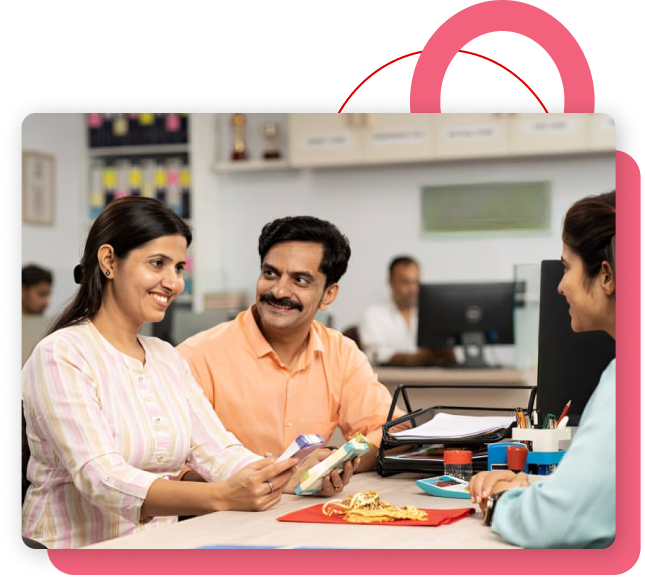
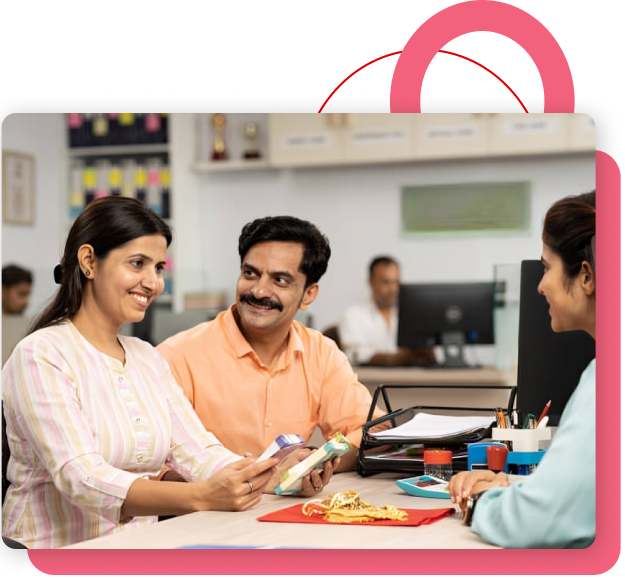
homepage responsiveness added

diff --git a/src/components/WhyChooseUs/WhyChooseUs.module.css b/src/components/WhyChooseUs/WhyChooseUs.module.css
@@ -1,42 +1,107 @@
+/* --- Mobile First Base Styles --- */
+
 .wrapper {
   max-width: var(--container-width);
-  margin: var(--spacing-xl) auto;
+  margin: var(--spacing-md) auto; /* Reduced margin for mobile */
   padding: 0 var(--spacing-sm);
 }
+
 .card {
   background-color: var(--color-primary-blue);
   color: white;
-  padding: var(--spacing-xl);
+  padding: var(--spacing-md); /* Reduced padding for mobile */
   border-radius: var(--radius-card);
 }
+
 .grid {
   display: grid;
   grid-template-columns: 1fr;
-  gap: var(--spacing-xl);
+  gap: var(--spacing-md); /* Reduced gap */
 }
-@media (min-width: 900px) {
-  .grid { grid-template-columns: 1fr 2fr; }
-}
-.content {
-  padding-right: var(--spacing-lg);
-  border-right: 1px solid rgba(255, 255, 255, 0.3);
 
+.content {
+  /* On mobile, place border below the text instead of to the right */
+  padding-bottom: var(--spacing-md);
+  border-bottom: 1px solid rgba(255, 255, 255, 0.3);
 }
-.content h2 { font-size: 2.5rem; margin-bottom: var(--spacing-sm); }
-.content p { opacity: 0.8; max-width: 30ch; }
+
+.content h2 { 
+  font-size: 2rem; /* Slightly smaller font for mobile */
+  margin-bottom: var(--spacing-sm); 
+  line-height: 1.2;
+}
+
+.content p { 
+  opacity: 0.8; 
+  max-width: 100%; /* Let text flow freely on mobile */
+}
+
 .features {
   display: grid;
-  grid-template-columns: repeat(auto-fit, minmax(140px, 1fr));
-  gap: var(--spacing-md) var(--spacing-xl);
+  /* Force exactly 2 columns on mobile */
+  grid-template-columns: repeat(2, 1fr);
+  gap: var(--spacing-md) var(--spacing-xs); /* Tighter horizontal gap for mobile */
 }
+
 .featureItem {
-  display: flex; flex-direction: column; align-items: center; justify-content: flex-start; gap: 1rem;
+  display: flex; 
+  flex-direction: column; 
+  align-items: center; /* Center align the icons on mobile */
+  justify-content: flex-start; 
+  gap: 0.75rem;
+  text-align: center; /* Center the text beneath the icon */
 }
+
 .featureIcon { 
   border-radius: 50%;
-  /* align this image to left like the title */
   object-fit: contain;
-  align-self: flex-start;
-  
 }
-.featureTitle { font-weight: var(--bold); font-size: 1.2rem; }
+
+.featureTitle { 
+  font-weight: var(--bold); 
+  font-size: 1.15rem; /* Marginally smaller title for mobile */
+  line-height: 1.2;
+}
+
+
+/* --- Desktop Overrides --- */
+@media (min-width: 900px) {
+  .wrapper {
+    margin: var(--spacing-xl) auto; /* Restore large spacing */
+  }
+
+  .card {
+    padding: var(--spacing-xl); /* Restore large padding */
+  }
+
+  .grid { 
+    grid-template-columns: 1fr 2fr; 
+    gap: var(--spacing-xl);
+  }
+
+  .content {
+    /* Switch the border back to the right side for desktop */
+    padding-bottom: 0;
+    border-bottom: none;
+    padding-right: var(--spacing-lg);
+    border-right: 1px solid rgba(255, 255, 255, 0.3);
+  }
+
+  .content h2 { 
+    font-size: 2.5rem; /* Restore large title */
+  }
+
+  .content p { 
+    max-width: 30ch; /* Restrict line length for readability on desktop */
+  }
+
+  .features {
+    grid-template-columns: repeat(auto-fit, minmax(140px, 1fr));
+    gap: var(--spacing-md) var(--spacing-xl);
+  }
+
+  .featureTitle {
+    align-items: flex-start;
+    font-size: 1.2rem;
+  }
+}

diff --git a/src/components/FeatureSection/FeatureSection.module.css b/src/components/FeatureSection/FeatureSection.module.css
@@ -1,4 +1,6 @@
-.section { padding: var(--spacing-xs) 0; }
+.section {
+  margin-bottom: var(--spacing-md);
+}
 .container {
   max-width: var(--container-width);
   margin: 0 auto;
@@ -7,25 +9,34 @@
 .grid {
   display: grid;
   grid-template-columns: 1fr;
-  gap: var(--spacing-lg);
+  gap: var(--spacing-md);
   align-items: center;
 }
-/* Desktop: 2 columns */
-@media (min-width: 900px) {
-  .grid { grid-template-columns: 1fr 1fr; gap: var(--spacing-xl); }
-  /* If reversed, swap column order visually */
-  .reversed .imageWrapper { order: 2; }
-  .reversed .contentWrapper { order: 1; }
+/* --- Image Responsiveness --- */
+.imageWrapper {
+  display: flex;
+  justify-content: center; /* Centers the image on mobile */
+  width: 100%;
 }
 
+.featureImage {
+  width: 100%;
+  max-width: 620px; /* Prevents it from getting larger than its original size */
+  height: auto; /* Ensures aspect ratio is maintained as it shrinks */
+}
 
+/* --- Mobile Typography & Spacing --- */
 .contentWrapper h2 {
-  font-size: 2.5rem;
+  font-size: 2rem; /* Smaller font size for mobile screens */
   color: var(--color-primary-blue);
-  margin-bottom: var(--spacing-md);
-  line-height: 1.2;
+  margin-bottom: var(--spacing-sm); /* Tighter spacing */
+  line-height: 1.3;
 }
-.checkList { margin: var(--spacing-sm) 0 var(--spacing-md); }
+
+.checkList { 
+  margin: var(--spacing-sm) 0 var(--spacing-md); 
+}
+
 .checkItem {
   display: flex; 
   gap: 0.75rem; 
@@ -33,15 +44,19 @@
   color: var(--color-text-light); 
   font-size: 1rem;
 }
+
 .checkIcon {
   color: var(--color-primary-blue);
   background: #E6EAF8;
   border-radius: 50%;
   width: 1.6rem; 
   height: 1.6rem;
-  display: flex; align-items: center; justify-content: center;
+  display: flex; 
+  align-items: center; 
+  justify-content: center;
   flex-shrink: 0;
 }
+
 .button {
   display: inline-block;
   background-color: var(--color-primary-red);
@@ -49,10 +64,36 @@
   padding: 0.6rem 2rem;
   border-radius: 0.9rem;
   font-weight: var(--medium);
-  font-size: 1.5rem;
+  font-size: 1.2rem; /* Slightly smaller button text for mobile */
   border: none;
   cursor: pointer;
   transition: opacity 0.2s;
   font-family: Poppins, sans-serif;
 }
+
 .button:hover { opacity: 0.9; }
+
+/* --- Desktop Overrides --- */
+@media (min-width: 900px) {
+  .section {
+    margin-bottom: var(--spacing-lg);
+  }
+  .grid { 
+    grid-template-columns: 1fr 1fr; 
+    gap: var(--spacing-xl); 
+  }
+  
+  /* If reversed, swap column order visually */
+  .reversed .imageWrapper { order: 2; }
+  .reversed .contentWrapper { order: 1; }
+
+  /* Restore original larger sizes for desktop */
+  .contentWrapper h2 {
+    font-size: 2.5rem; 
+    margin-bottom: var(--spacing-md);
+  }
+
+  .button {
+    font-size: 1.5rem;
+  }
+}

diff --git a/src/components/FeatureSection/FeatureSection.jsx b/src/components/FeatureSection/FeatureSection.jsx
@@ -14,6 +14,7 @@ export default function FeatureSection({ title, points, buttonLink, buttonText, 
               alt={title}
               width={620}
               height={550}
+              className={styles.featureImage}
             />
           </div>
 
